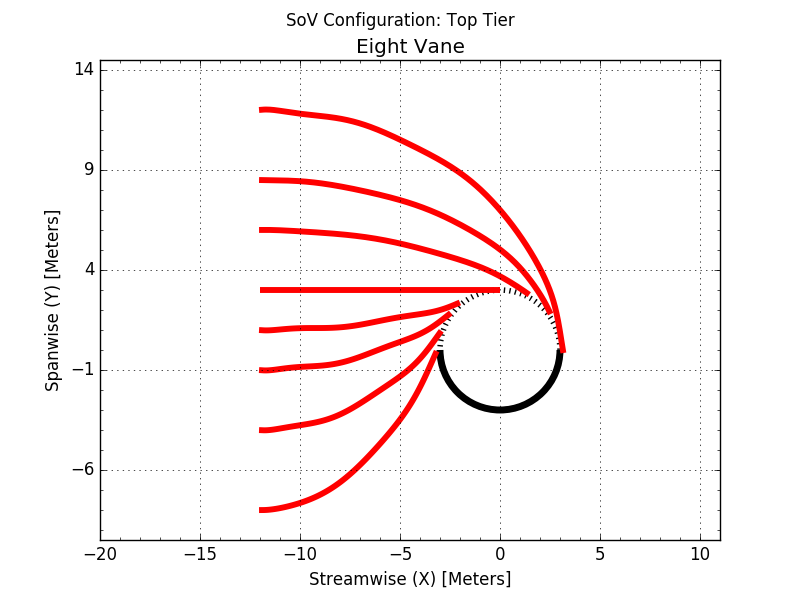
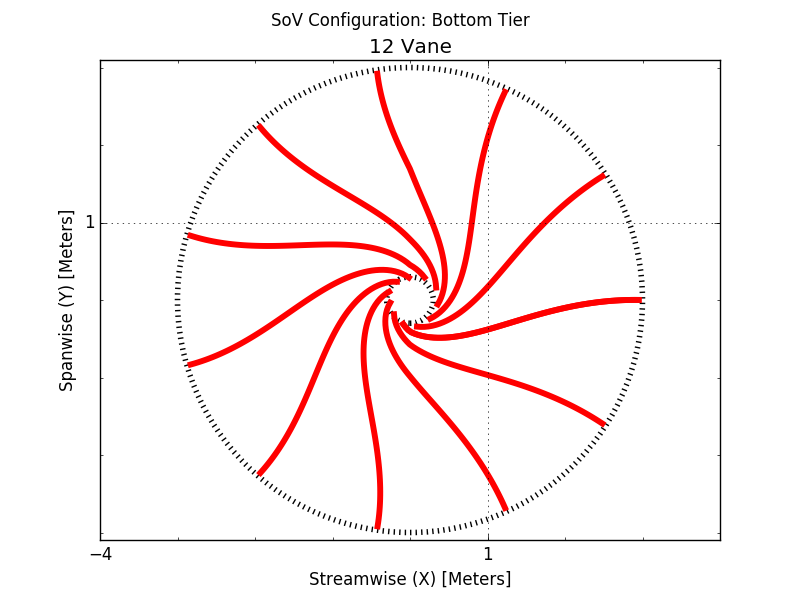
whew, bottom vanes working

diff --git a/disputatio/routines/vanes/bottom.py b/disputatio/routines/vanes/bottom.py
@@ -13,13 +13,6 @@ import matplotlib.pyplot as plt
 from scipy import integrate
 from scipy.integrate import ode
 
-#
-# adding functions
-#
-## thetab  := -(thetabs_f)*pow(abs((r-(rb-0.3))/((rmb-rb-0.3))),0.4)+thetabs_f
-## thetabb := -(thetabs_b)*pow(abs((r-(rb-0.3))/((rmb-rb-0.3))),0.4)+thetabs_b
-## thetab  := (${Physics/VelocityPenalty/thetabs_f}/(${Physics/VelocityPenalty/rmb}-(${Physics/VelocityPenalty/rb}-0.3)))*((${Physics/VelocityPenalty/rb}-0.3)-r);
-
 
 def vf(t,x):
     #
@@ -29,19 +22,21 @@ def vf(t,x):
     thetabs_b = 50*np.pi/180.0 # moving from 70 to 80
 
     rb  = 0.3
-    rmb = 3.0
+    rmb = 2.9
 
-    r = np.sqrt(x[0]**2 + x[1]**2)
+    r     = np.sqrt(x[0]**2 + x[1]**2)
+    theta = np.arctan2(x[1],x[0])
 
     if(x[0]>0):
-        theta = -(thetabs_f)*np.power(np.abs((r-rb)/(rmb-rb)),0.5)+thetabs_f
+        thetab = -(thetabs_f)*np.power(np.abs((r-rb)/(rmb-rb)),0.5)+thetabs_f
     else:
-        theta = -(thetabs_b)*np.power(np.abs((r-rb)/(rmb-rb)),1.2)+thetabs_b
+        thetab = -(thetabs_b)*np.power(np.abs((r-rb)/(rmb-rb)),1.2)+thetabs_b
 
+    thetabb = theta + thetab
 
     dx=np.zeros(2)
-    dx[0]=np.cos(theta)
-    dx[1]=np.sin(theta)
+    dx[0]=-np.cos(thetabb)
+    dx[1]=-np.sin(thetabb)
 
     return dx
 
@@ -49,13 +44,19 @@ def arr():
     #
     # Solution curves
     #
-    h = 1
-    ic=[[h,-4]]
+    #rad = 0.4
+    rad = 3.0
+    theta = np.linspace(0, 2*np.pi, 12)
+    ic    = np.stack((rad*np.cos(theta),rad*np.sin(theta)),axis=-1)
+
     end = 0.0
-    t0=0; dt=0.1;
+    t0=0; dt=0.05;
     r = ode(vf).set_integrator('vode', method='bdf',max_step=dt)
     for k in range(len(ic)):
-        tEnd=np.sqrt(ic[k][0]**2 + ic[k][1]**2)-end
+        #
+        # tEnd=np.sqrt(ic[k][0]**2 + ic[k][1]**2)-end
+        #
+        tEnd=3.2
         Y=[];T=[];S=[];
         r.set_initial_value(ic[k], t0)
         while r.successful() and r.t +dt < tEnd:
@@ -76,12 +77,13 @@ def main():
     fig = plt.figure()
     ax = fig.add_subplot(1,1,1)
 
+    dom=4
 
-    xmin = -10
-    xmax = 10
+    xmin = -dom
+    xmax = dom
 
-    ymin = -10
-    ymax = 10
+    ymin = -dom
+    ymax = dom
     
     #
     # Evaluate it on a grid...

diff --git a/disputatio/routines/vanes/combo.py b/disputatio/routines/vanes/combo.py
@@ -325,7 +325,7 @@ def main():
     fig = plt.gcf()
     fig.gca().add_artist(circle)
     plt.axes().set_aspect('equal', 'datalim')
-    plt.savefig('interp_entire.png')
+    plt.savefig('interp_entire_top.png')
 
     #
     # output polynomial for input
